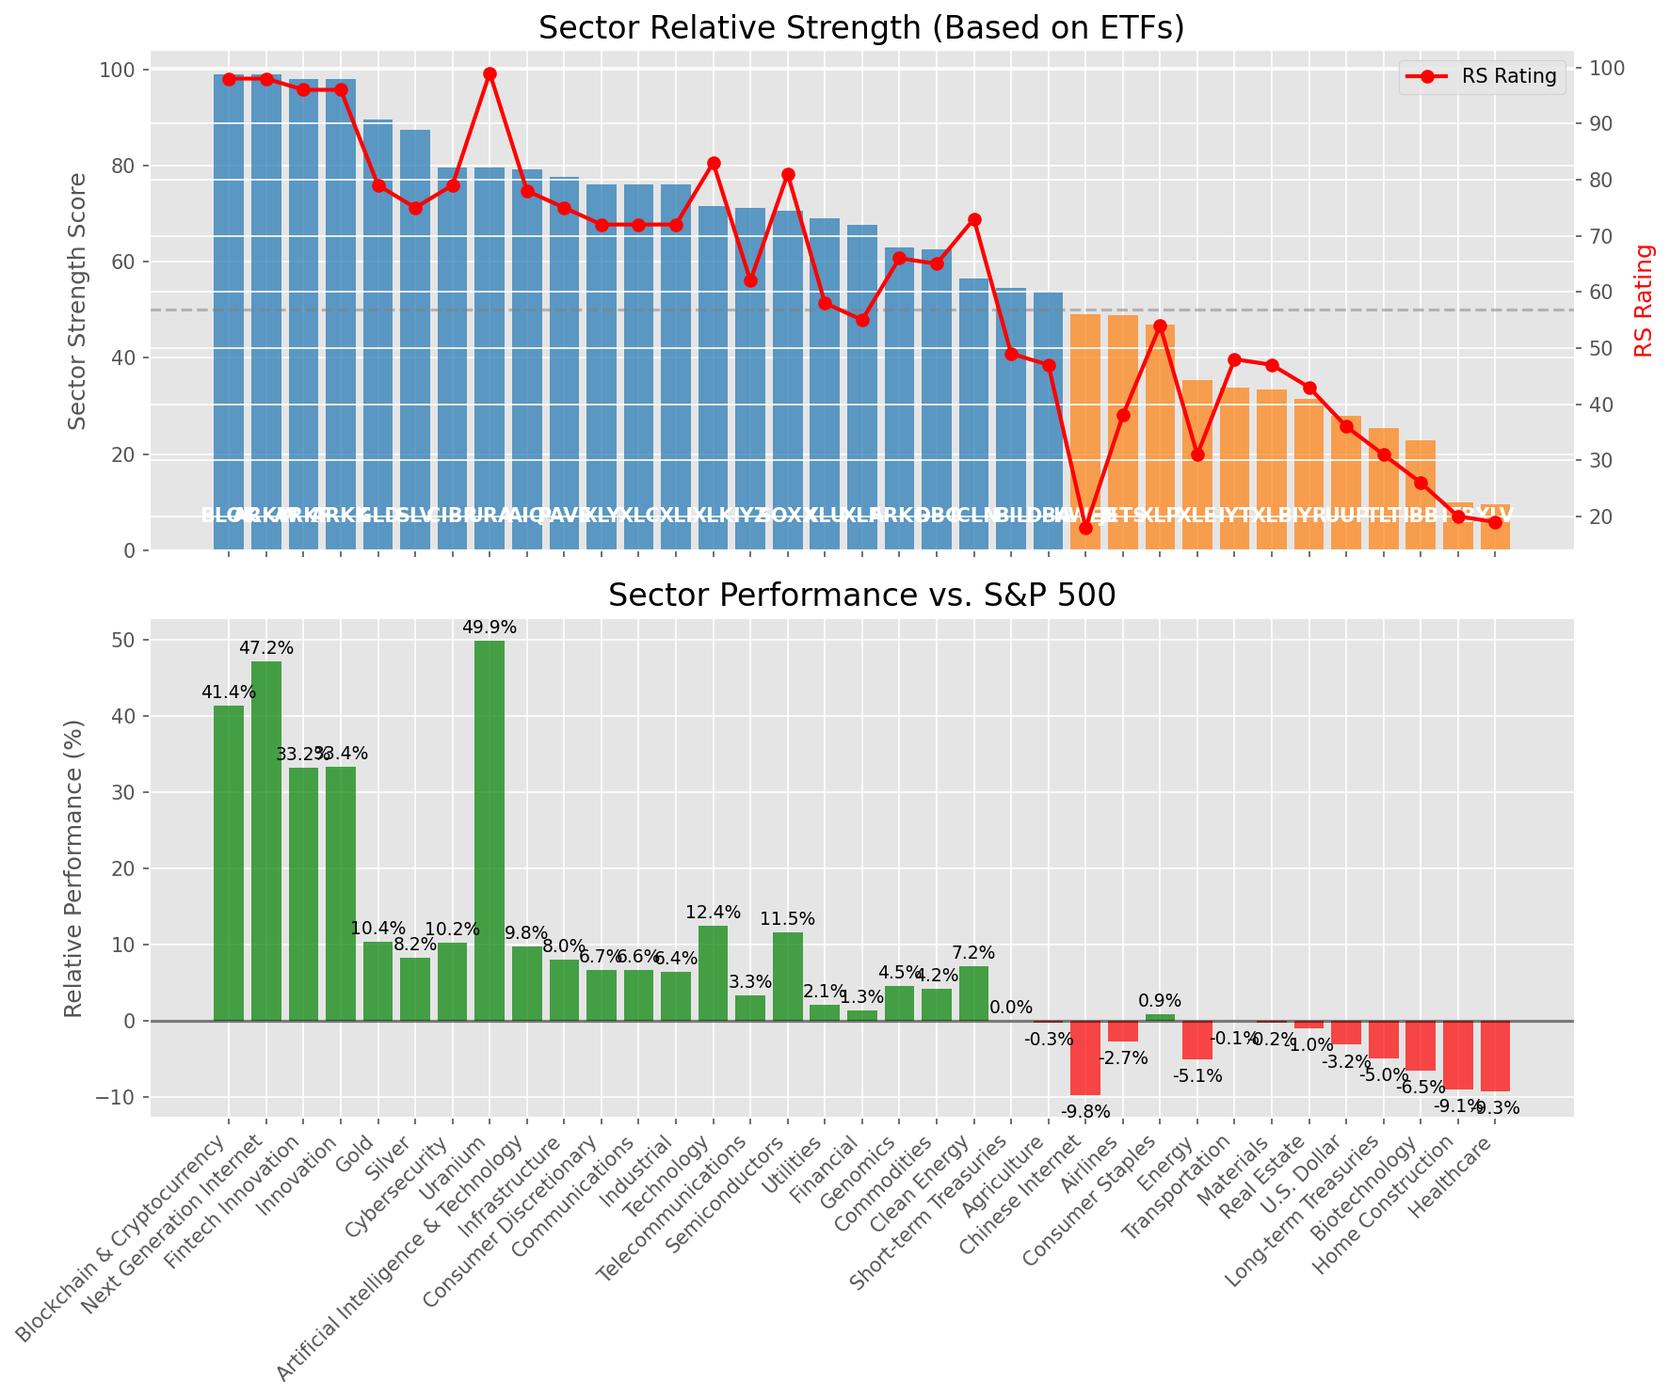
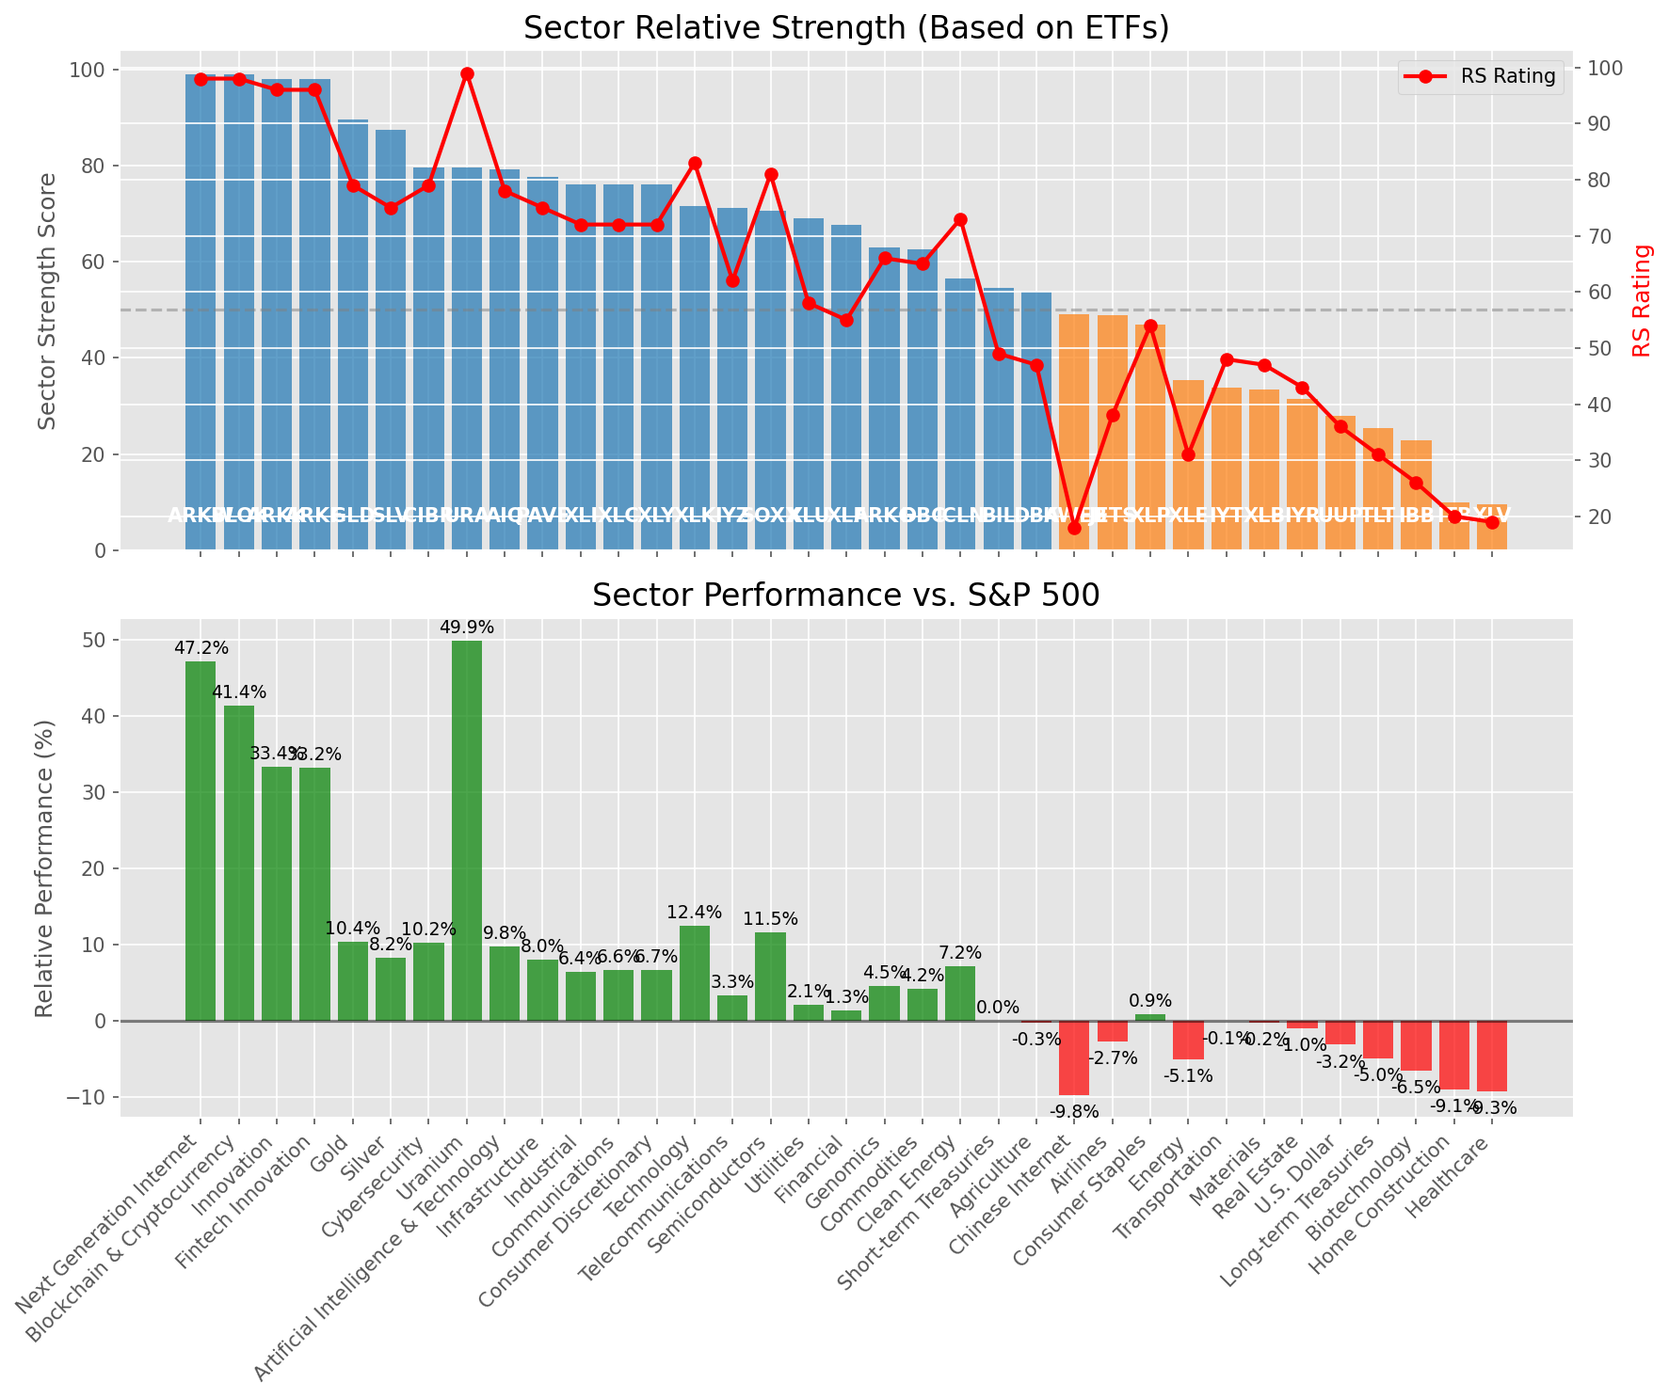
Add market report for 2025-06-19

diff --git a/oneil_relative_strength_report_2025-06-19.md b/oneil_relative_strength_report_2025-06-19.md
@@ -49,19 +49,19 @@ Based on William O'Neil's Relative Strength Methodology
 
 | ETF | Strength | RS Rating | Performance | Above Key MAs | Trend | Sector |
 |-----|----------|-----------|-------------|--------------|-------|--------|
-| [BLOK](https://www.tradingview.com/chart/?symbol=BLOK) | 99.0 | 98.0 | 41.40% | 10d ✓, 50d ✓, 200d ✓ | ↗ | Blockchain & Cryptocurrency |
 | [ARKW](https://www.tradingview.com/chart/?symbol=ARKW) | 99.0 | 98.0 | 47.16% | 10d ✓, 50d ✓, 200d ✓ | ↗ | Next Generation Internet |
-| [ARKF](https://www.tradingview.com/chart/?symbol=ARKF) | 98.0 | 96.0 | 33.24% | 10d ✓, 50d ✓, 200d ✓ | ↗ | Fintech Innovation |
+| [BLOK](https://www.tradingview.com/chart/?symbol=BLOK) | 99.0 | 98.0 | 41.40% | 10d ✓, 50d ✓, 200d ✓ | ↗ | Blockchain & Cryptocurrency |
 | [ARKK](https://www.tradingview.com/chart/?symbol=ARKK) | 98.0 | 96.0 | 33.41% | 10d ✓, 50d ✓, 200d ✓ | ↗ | Innovation |
+| [ARKF](https://www.tradingview.com/chart/?symbol=ARKF) | 98.0 | 96.0 | 33.24% | 10d ✓, 50d ✓, 200d ✓ | ↗ | Fintech Innovation |
 | [GLD](https://www.tradingview.com/chart/?symbol=GLD) | 89.5 | 79.0 | 10.37% | 10d ✓, 50d ✓, 200d ✓ | ↗ | Gold |
 | [SLV](https://www.tradingview.com/chart/?symbol=SLV) | 87.5 | 75.0 | 8.20% | 10d ✓, 50d ✓, 200d ✓ | ↗ | Silver |
 | [CIBR](https://www.tradingview.com/chart/?symbol=CIBR) | 79.6 | 79.0 | 10.22% | 10d ✗, 50d ✓, 200d ✓ | ↗ | Cybersecurity |
 | [URA](https://www.tradingview.com/chart/?symbol=URA) | 79.5 | 99.0 | 49.94% | 10d ✓, 50d ✓, 200d ✓ | ↘ | Uranium |
 | [AIQ](https://www.tradingview.com/chart/?symbol=AIQ) | 79.1 | 78.0 | 9.78% | 10d ✗, 50d ✓, 200d ✓ | ↗ | Artificial Intelligence & Technology |
 | [PAVE](https://www.tradingview.com/chart/?symbol=PAVE) | 77.6 | 75.0 | 8.01% | 10d ✗, 50d ✓, 200d ✓ | ↗ | Infrastructure |
-| [XLY](https://www.tradingview.com/chart/?symbol=XLY) | 76.1 | 72.0 | 6.70% | 10d ✗, 50d ✓, 200d ✓ | ↗ | Consumer Discretionary |
-| [XLC](https://www.tradingview.com/chart/?symbol=XLC) | 76.1 | 72.0 | 6.62% | 10d ✗, 50d ✓, 200d ✓ | ↗ | Communications |
 | [XLI](https://www.tradingview.com/chart/?symbol=XLI) | 76.1 | 72.0 | 6.42% | 10d ✗, 50d ✓, 200d ✓ | ↗ | Industrial |
+| [XLC](https://www.tradingview.com/chart/?symbol=XLC) | 76.1 | 72.0 | 6.62% | 10d ✗, 50d ✓, 200d ✓ | ↗ | Communications |
+| [XLY](https://www.tradingview.com/chart/?symbol=XLY) | 76.1 | 72.0 | 6.70% | 10d ✗, 50d ✓, 200d ✓ | ↗ | Consumer Discretionary |
 | [XLK](https://www.tradingview.com/chart/?symbol=XLK) | 71.5 | 83.0 | 12.42% | 10d ✓, 50d ✓, 200d ✓ | ↘ | Technology |
 | [IYZ](https://www.tradingview.com/chart/?symbol=IYZ) | 71.1 | 62.0 | 3.31% | 10d ✗, 50d ✓, 200d ✓ | ↗ | Telecommunications |
 | [SOXX](https://www.tradingview.com/chart/?symbol=SOXX) | 70.5 | 81.0 | 11.55% | 10d ✓, 50d ✓, 200d ✓ | ↘ | Semiconductors |
@@ -98,9 +98,9 @@ This table shows the relative strength metrics for different market sectors base
 
 ### **Current Sector Leadership**
 
-The current market leadership is coming from the following sectors: **Blockchain & Cryptocurrency, Next Generation Internet, Fintech Innovation**.
+The current market leadership is coming from the following sectors: **Next Generation Internet, Blockchain & Cryptocurrency, Innovation**.
 
-The **Blockchain & Cryptocurrency** sector (represented by **BLOK**) is showing particularly strong relative strength with an RS rating of 98.0 and performance of 41.40% vs. the S&P 500. This sector is trading above its 10-day, 50-day, 200-day moving average(s). Investors should consider focusing on high RS stocks within these leading sectors for potential outperformance.
+The **Next Generation Internet** sector (represented by **ARKW**) is showing particularly strong relative strength with an RS rating of 98.0 and performance of 47.16% vs. the S&P 500. This sector is trading above its 10-day, 50-day, 200-day moving average(s). Investors should consider focusing on high RS stocks within these leading sectors for potential outperformance.
 
 ---
 
@@ -110,69 +110,69 @@ The following 75 stocks show exceptional relative strength:
 
 | RS Rating | Buy Score | Current Price | Chart | Name | Ticker |
 |-----------|-----------|---------------|-------|------|--------|
+| 100 | 100 | $78.35 | [Chart](https://www.tradingview.com/chart/?symbol=HOOD) | Robinhood Markets, Inc. Class A Common Stock | HOOD |
 | 100 | 100 | $61.07 | [Chart](https://www.tradingview.com/chart/?symbol=HIMS) | Hims & Hers Health, Inc. | HIMS |
 | 100 | 100 | $143.03 | [Chart](https://www.tradingview.com/chart/?symbol=SEZL) | Sezzle Inc. Common Stock | SEZL |
 | 100 | 100 | $180.96 | [Chart](https://www.tradingview.com/chart/?symbol=LEU) | Centrus Energy Corp. | LEU |
-| 100 | 100 | $78.35 | [Chart](https://www.tradingview.com/chart/?symbol=HOOD) | Robinhood Markets, Inc. Class A Common Stock | HOOD |
 | 100 | 100 | $102.65 | [Chart](https://www.tradingview.com/chart/?symbol=RBLX) | Roblox Corporation | RBLX |
-| 99 | 100 | $79.38 | [Chart](https://www.tradingview.com/chart/?symbol=SLNO) | Soleno Therapeutics, Inc. Common Stock | SLNO |
-| 99 | 100 | $30.74 | [Chart](https://www.tradingview.com/chart/?symbol=CRK) | Comstock Resources, Inc. | CRK |
 | 99 | 100 | $136.25 | [Chart](https://www.tradingview.com/chart/?symbol=CLS) | Celestica, Inc. | CLS |
-| 99 | 100 | $139.96 | [Chart](https://www.tradingview.com/chart/?symbol=PLTR) | Palantir Technologies Inc. Class A Common Stock | PLTR |
-| 99 | 100 | $181.40 | [Chart](https://www.tradingview.com/chart/?symbol=NET) | Cloudflare, Inc. Class A common stock, par value $0.001 per share | NET |
+| 99 | 100 | $30.74 | [Chart](https://www.tradingview.com/chart/?symbol=CRK) | Comstock Resources, Inc. | CRK |
 | 99 | 100 | $43.78 | [Chart](https://www.tradingview.com/chart/?symbol=FARO) | Faro Technologies Inc | FARO |
-| 98 | 100 | $204.66 | [Chart](https://www.tradingview.com/chart/?symbol=JBL) | Jabil Inc. | JBL |
+| 99 | 100 | $139.96 | [Chart](https://www.tradingview.com/chart/?symbol=PLTR) | Palantir Technologies Inc. Class A Common Stock | PLTR |
+| 99 | 100 | $79.38 | [Chart](https://www.tradingview.com/chart/?symbol=SLNO) | Soleno Therapeutics, Inc. Common Stock | SLNO |
+| 99 | 100 | $181.40 | [Chart](https://www.tradingview.com/chart/?symbol=NET) | Cloudflare, Inc. Class A common stock, par value $0.001 per share | NET |
 | 98 | 100 | $52.50 | [Chart](https://www.tradingview.com/chart/?symbol=BBW) | Build-A-Bear Workshop, Inc. | BBW |
+| 98 | 100 | $204.66 | [Chart](https://www.tradingview.com/chart/?symbol=JBL) | Jabil Inc. | JBL |
 | 98 | 100 | $490.19 | [Chart](https://www.tradingview.com/chart/?symbol=GEV) | GE Vernova Inc. | GEV |
-| 97 | 100 | $290.38 | [Chart](https://www.tradingview.com/chart/?symbol=TLN) | Talen Energy Corporation Common Stock | TLN |
-| 97 | 100 | $37.22 | [Chart](https://www.tradingview.com/chart/?symbol=MP) | MP Materials Corp. | MP |
 | 97 | 100 | $144.57 | [Chart](https://www.tradingview.com/chart/?symbol=COOP) | Mr. Cooper Group Inc. Common Stock | COOP |
-| 96 | 100 | $48.12 | [Chart](https://www.tradingview.com/chart/?symbol=AU) | AngloGold Ashanti plc | AU |
+| 97 | 100 | $37.22 | [Chart](https://www.tradingview.com/chart/?symbol=MP) | MP Materials Corp. | MP |
+| 97 | 100 | $290.38 | [Chart](https://www.tradingview.com/chart/?symbol=TLN) | Talen Energy Corporation Common Stock | TLN |
 | 96 | 100 | $21.41 | [Chart](https://www.tradingview.com/chart/?symbol=MAG) | MAG Silver Corp. | MAG |
+| 96 | 100 | $48.12 | [Chart](https://www.tradingview.com/chart/?symbol=AU) | AngloGold Ashanti plc | AU |
 | 96 | 100 | $46.94 | [Chart](https://www.tradingview.com/chart/?symbol=ARKF) | ARK Fintech Innovation ETF | ARKF |
 | 96 | 100 | $70.88 | [Chart](https://www.tradingview.com/chart/?symbol=ULS) | UL Solutions Inc. | ULS |
-| 95 | 100 | $250.97 | [Chart](https://www.tradingview.com/chart/?symbol=CRS) | Carpenter Technology Corp | CRS |
-| 95 | 100 | $42.16 | [Chart](https://www.tradingview.com/chart/?symbol=KTOS) | Kratos Defense & Security Solutions, Inc. | KTOS |
-| 95 | 100 | $485.16 | [Chart](https://www.tradingview.com/chart/?symbol=CRWD) | CrowdStrike Holdings, Inc. Class A Common Stock | CRWD |
 | 95 | 100 | $32.30 | [Chart](https://www.tradingview.com/chart/?symbol=PRDO) | Perdoceo Education Corporation | PRDO |
-| 94 | 100 | $178.31 | [Chart](https://www.tradingview.com/chart/?symbol=EAT) | Brinker International, Inc. | EAT |
-| 94 | 100 | $24.56 | [Chart](https://www.tradingview.com/chart/?symbol=TFPM) | Triple Flag Precious Metals Corp. | TFPM |
+| 95 | 100 | $250.97 | [Chart](https://www.tradingview.com/chart/?symbol=CRS) | Carpenter Technology Corp | CRS |
+| 95 | 100 | $485.16 | [Chart](https://www.tradingview.com/chart/?symbol=CRWD) | CrowdStrike Holdings, Inc. Class A Common Stock | CRWD |
+| 95 | 100 | $42.16 | [Chart](https://www.tradingview.com/chart/?symbol=KTOS) | Kratos Defense & Security Solutions, Inc. | KTOS |
 | 94 | 100 | $506.31 | [Chart](https://www.tradingview.com/chart/?symbol=CASY) | Casey's General Stores Inc | CASY |
-| 93 | 100 | $103.48 | [Chart](https://www.tradingview.com/chart/?symbol=JCI) | Johnson Controls International plc | JCI |
-| 93 | 100 | $165.40 | [Chart](https://www.tradingview.com/chart/?symbol=CAH) | Cardinal Health, Inc. | CAH |
+| 94 | 100 | $24.56 | [Chart](https://www.tradingview.com/chart/?symbol=TFPM) | Triple Flag Precious Metals Corp. | TFPM |
+| 94 | 100 | $178.31 | [Chart](https://www.tradingview.com/chart/?symbol=EAT) | Brinker International, Inc. | EAT |
 | 93 | 100 | $124.50 | [Chart](https://www.tradingview.com/chart/?symbol=ATGE) | Adtalem Global Education Inc. Common Shares | ATGE |
+| 93 | 100 | $165.40 | [Chart](https://www.tradingview.com/chart/?symbol=CAH) | Cardinal Health, Inc. | CAH |
+| 93 | 100 | $103.48 | [Chart](https://www.tradingview.com/chart/?symbol=JCI) | Johnson Controls International plc | JCI |
+| 92 | 100 | $54.90 | [Chart](https://www.tradingview.com/chart/?symbol=AKRO) | Akero Therapeutics, Inc. Common Stock | AKRO |
 | 92 | 100 | $58.92 | [Chart](https://www.tradingview.com/chart/?symbol=CAKE) | Cheesecake Factory (The) | CAKE |
 | 92 | 100 | $22.38 | [Chart](https://www.tradingview.com/chart/?symbol=BTSG) | BrightSpring Health Services, Inc. Common Stock | BTSG |
-| 92 | 100 | $54.90 | [Chart](https://www.tradingview.com/chart/?symbol=AKRO) | Akero Therapeutics, Inc. Common Stock | AKRO |
 | 91 | 100 | $710.19 | [Chart](https://www.tradingview.com/chart/?symbol=SPOT) | Spotify Technology S.A. | SPOT |
 | 91 | 100 | $148.26 | [Chart](https://www.tradingview.com/chart/?symbol=LYV) | Live Nation Entertainment Inc. | LYV |
-| 90 | 100 | $58.38 | [Chart](https://www.tradingview.com/chart/?symbol=SHLD) | Global X Defense Tech ETF | SHLD |
 | 90 | 100 | $49.34 | [Chart](https://www.tradingview.com/chart/?symbol=BTI) | British American Tobacco p.l.c. American Depositary Shares, American Depositary Shares, each representing one Ordinary Share | BTI |
 | 90 | 100 | $91.07 | [Chart](https://www.tradingview.com/chart/?symbol=WPM) | Wheaton Precious Metals Corp. Common Stock | WPM |
+| 90 | 100 | $58.38 | [Chart](https://www.tradingview.com/chart/?symbol=SHLD) | Global X Defense Tech ETF | SHLD |
 | 89 | 100 | $182.61 | [Chart](https://www.tradingview.com/chart/?symbol=PM) | Philip Morris International Inc. | PM |
-| 89 | 100 | $40.00 | [Chart](https://www.tradingview.com/chart/?symbol=BBIO) | BridgeBio Pharma, Inc. Common Stock | BBIO |
 | 89 | 100 | $222.75 | [Chart](https://www.tradingview.com/chart/?symbol=DRI) | Darden Restaurants, Inc. | DRI |
-| 89 | 100 | $35.74 | [Chart](https://www.tradingview.com/chart/?symbol=AHR) | American Healthcare REIT, Inc. | AHR |
+| 89 | 100 | $40.00 | [Chart](https://www.tradingview.com/chart/?symbol=BBIO) | BridgeBio Pharma, Inc. Common Stock | BBIO |
 | 89 | 100 | $52.60 | [Chart](https://www.tradingview.com/chart/?symbol=IBKR) | Interactive Brokers Group, Inc. Class A Common Stock | IBKR |
+| 89 | 100 | $35.74 | [Chart](https://www.tradingview.com/chart/?symbol=AHR) | American Healthcare REIT, Inc. | AHR |
 | 89 | 100 | $74.12 | [Chart](https://www.tradingview.com/chart/?symbol=CTVA) | Corteva, Inc. Common Stock | CTVA |
+| 88 | 100 | $79.30 | [Chart](https://www.tradingview.com/chart/?symbol=LLYVK) | Liberty Media Corporation Series C Liberty Live Common Stock | LLYVK |
 | 88 | 100 | $36.02 | [Chart](https://www.tradingview.com/chart/?symbol=UGL) | ProShares Ultra Gold | UGL |
 | 88 | 100 | $175.95 | [Chart](https://www.tradingview.com/chart/?symbol=TKO) | TKO Group Holdings, Inc. | TKO |
-| 88 | 100 | $79.30 | [Chart](https://www.tradingview.com/chart/?symbol=LLYVK) | Liberty Media Corporation Series C Liberty Live Common Stock | LLYVK |
+| 87 | 100 | $220.58 | [Chart](https://www.tradingview.com/chart/?symbol=DASH) | DoorDash, Inc. Class A Common Stock | DASH |
 | 87 | 100 | $122.65 | [Chart](https://www.tradingview.com/chart/?symbol=AEM) | Agnico Eagle Mines Ltd. | AEM |
 | 87 | 100 | $281.16 | [Chart](https://www.tradingview.com/chart/?symbol=VRSN) | VeriSign Inc | VRSN |
-| 87 | 100 | $220.58 | [Chart](https://www.tradingview.com/chart/?symbol=DASH) | DoorDash, Inc. Class A Common Stock | DASH |
 | 86 | 99 | $42.68 | [Chart](https://www.tradingview.com/chart/?symbol=VIRT) | Virtu Financial, Inc. Class A | VIRT |
 | 86 | 99 | $22.49 | [Chart](https://www.tradingview.com/chart/?symbol=LAUR) | Laureate Education, Inc. Common Stock | LAUR |
 | 85 | 99 | $238.50 | [Chart](https://www.tradingview.com/chart/?symbol=TTWO) | Take-Two Interactive Software Inc | TTWO |
 | 88 | 98 | $53.00 | [Chart](https://www.tradingview.com/chart/?symbol=GDX) | VanEck Gold Miners ETF | GDX |
-| 87 | 98 | $179.13 | [Chart](https://www.tradingview.com/chart/?symbol=RGLD) | Royal Gold Inc | RGLD |
 | 87 | 98 | $101.97 | [Chart](https://www.tradingview.com/chart/?symbol=FWONK) | Liberty Media Corporation Series C Liberty Formula One Common Stock | FWONK |
+| 87 | 98 | $179.13 | [Chart](https://www.tradingview.com/chart/?symbol=RGLD) | Royal Gold Inc | RGLD |
 | 86 | 98 | $84.24 | [Chart](https://www.tradingview.com/chart/?symbol=TPR) | Tapestry, Inc. Common Stock | TPR |
-| 86 | 96 | $195.96 | [Chart](https://www.tradingview.com/chart/?symbol=TRI) | Thomson Reuters Corporation Common Shares | TRI |
 | 86 | 96 | $90.05 | [Chart](https://www.tradingview.com/chart/?symbol=SANM) | Sanmina  Corp | SANM |
+| 86 | 96 | $195.96 | [Chart](https://www.tradingview.com/chart/?symbol=TRI) | Thomson Reuters Corporation Common Shares | TRI |
 | 85 | 96 | $217.77 | [Chart](https://www.tradingview.com/chart/?symbol=BAP) | Credicorp LTD | BAP |
-| 85 | 95 | $89.91 | [Chart](https://www.tradingview.com/chart/?symbol=SCHW) | The Charles Schwab Corporation | SCHW |
 | 85 | 95 | $205.50 | [Chart](https://www.tradingview.com/chart/?symbol=GPOR) | Gulfport Energy Corporation | GPOR |
+| 85 | 95 | $89.91 | [Chart](https://www.tradingview.com/chart/?symbol=SCHW) | The Charles Schwab Corporation | SCHW |
 | 83 | 95 | $29.20 | [Chart](https://www.tradingview.com/chart/?symbol=IMAX) | Imax Corp | IMAX |
 | 82 | 95 | $283.21 | [Chart](https://www.tradingview.com/chart/?symbol=IBM) | International Business Machines Corporation | IBM |
 | 85 | 94 | $197.17 | [Chart](https://www.tradingview.com/chart/?symbol=COF) | Capital One Financial | COF |
@@ -181,8 +181,8 @@ The following 75 stocks show exceptional relative strength:
 | 80 | 94 | $25.20 | [Chart](https://www.tradingview.com/chart/?symbol=SRAD) | Sportradar Group AG Class A Ordinary Shares | SRAD |
 | 83 | 93 | $86.37 | [Chart](https://www.tradingview.com/chart/?symbol=NDAQ) | Nasdaq, Inc. Common Stock | NDAQ |
 | 80 | 93 | $59.37 | [Chart](https://www.tradingview.com/chart/?symbol=EQT) | EQT CORP | EQT |
-| 81 | 92 | $296.75 | [Chart](https://www.tradingview.com/chart/?symbol=COR) | Cencora, Inc. | COR |
 | 81 | 92 | $63.19 | [Chart](https://www.tradingview.com/chart/?symbol=MNST) | Monster Beverage Corporation | MNST |
+| 81 | 92 | $296.75 | [Chart](https://www.tradingview.com/chart/?symbol=COR) | Cencora, Inc. | COR |
 | 80 | 92 | $188.34 | [Chart](https://www.tradingview.com/chart/?symbol=LOPE) | Grand Canyon Education, Inc | LOPE |
 | 81 | 91 | $57.17 | [Chart](https://www.tradingview.com/chart/?symbol=EPR) | EPR Properties | EPR |
 
@@ -195,18 +195,18 @@ The following 68 stocks show deteriorating relative strength:
 
 | RS Rating | Sell Score | Current Price | Chart | Name | Ticker |
 |-----------|------------|---------------|-------|------|--------|
-| 1 | 100 | $31.05 | [Chart](https://www.tradingview.com/chart/?symbol=TECS) | Direxion Daily Technology Bear 3x Shares | TECS |
-| 1 | 100 | $16.41 | [Chart](https://www.tradingview.com/chart/?symbol=NVDS) | Investment Managers Series Trust II Tradr 1.5X Short NVDA Daily ETF | NVDS |
 | 1 | 100 | $25.98 | [Chart](https://www.tradingview.com/chart/?symbol=HELE) | Helen Of Troy Ltd | HELE |
+| 1 | 100 | $16.41 | [Chart](https://www.tradingview.com/chart/?symbol=NVDS) | Investment Managers Series Trust II Tradr 1.5X Short NVDA Daily ETF | NVDS |
+| 1 | 100 | $31.05 | [Chart](https://www.tradingview.com/chart/?symbol=TECS) | Direxion Daily Technology Bear 3x Shares | TECS |
 | 2 | 100 | $11.62 | [Chart](https://www.tradingview.com/chart/?symbol=NRIX) | Nurix Therapeutics, Inc. Common stock | NRIX |
 | 2 | 100 | $23.91 | [Chart](https://www.tradingview.com/chart/?symbol=CRTO) | Criteo S.A. | CRTO |
 | 3 | 100 | $21.30 | [Chart](https://www.tradingview.com/chart/?symbol=AMRK) | A-Mark Precious Metals, Inc. | AMRK |
 | 4 | 100 | $44.55 | [Chart](https://www.tradingview.com/chart/?symbol=LINE) | Lineage, Inc. Common Stock | LINE |
-| 6 | 100 | $16.58 | [Chart](https://www.tradingview.com/chart/?symbol=AMTB) | Amerant Bancorp Inc. | AMTB |
-| 6 | 100 | $17.06 | [Chart](https://www.tradingview.com/chart/?symbol=ZTO) | ZTO Express (Cayman) Inc. American Depositary Shares, each representing one Class A ordinary share | ZTO |
 | 6 | 100 | $37.58 | [Chart](https://www.tradingview.com/chart/?symbol=APOG) | Apogee Enterprises Inc | APOG |
-| 7 | 100 | $30.34 | [Chart](https://www.tradingview.com/chart/?symbol=FUN) | Six Flags Entertainment Corporation | FUN |
+| 6 | 100 | $17.06 | [Chart](https://www.tradingview.com/chart/?symbol=ZTO) | ZTO Express (Cayman) Inc. American Depositary Shares, each representing one Class A ordinary share | ZTO |
+| 6 | 100 | $16.58 | [Chart](https://www.tradingview.com/chart/?symbol=AMTB) | Amerant Bancorp Inc. | AMTB |
 | 7 | 100 | $20.36 | [Chart](https://www.tradingview.com/chart/?symbol=BITI) | ProShares Short Bitcoin ETF | BITI |
+| 7 | 100 | $30.34 | [Chart](https://www.tradingview.com/chart/?symbol=FUN) | Six Flags Entertainment Corporation | FUN |
 | 7 | 100 | $11.07 | [Chart](https://www.tradingview.com/chart/?symbol=M) | Macy's Inc. | M |
 | 9 | 100 | $20.37 | [Chart](https://www.tradingview.com/chart/?symbol=KIDS) | OrthoPediatrics Corp. Common Stock | KIDS |
 | 11 | 100 | $50.27 | [Chart](https://www.tradingview.com/chart/?symbol=AMWD) | American Woodmark Corp | AMWD |
@@ -221,8 +221,8 @@ The following 68 stocks show deteriorating relative strength:
 | 10 | 97 | $25.65 | [Chart](https://www.tradingview.com/chart/?symbol=ATHM) | Autohome Inc. American Depositary Shares, each representing four Class A Ordinary Shares | ATHM |
 | 15 | 97 | $19.37 | [Chart](https://www.tradingview.com/chart/?symbol=FOR) | Forestar Group Inc. | FOR |
 | 13 | 96 | $42.57 | [Chart](https://www.tradingview.com/chart/?symbol=PRKS) | United Parks & Resorts Inc. | PRKS |
-| 7 | 95 | $47.62 | [Chart](https://www.tradingview.com/chart/?symbol=SNY) | Sanofi American Depositary Shares (Each representing one-half of one ordinary share) | SNY |
 | 7 | 95 | $28.33 | [Chart](https://www.tradingview.com/chart/?symbol=QDEL) | QuidelOrtho Corporation Common Stock | QDEL |
+| 7 | 95 | $47.62 | [Chart](https://www.tradingview.com/chart/?symbol=SNY) | Sanofi American Depositary Shares (Each representing one-half of one ordinary share) | SNY |
 | 14 | 95 | $30.50 | [Chart](https://www.tradingview.com/chart/?symbol=CRNX) | Crinetics Pharmaceuticals, Inc. | CRNX |
 | 18 | 95 | $43.46 | [Chart](https://www.tradingview.com/chart/?symbol=SON) | Sonoco Products Company | SON |
 | 13 | 94 | $25.97 | [Chart](https://www.tradingview.com/chart/?symbol=WY) | Weyerhaeuser Company | WY |
